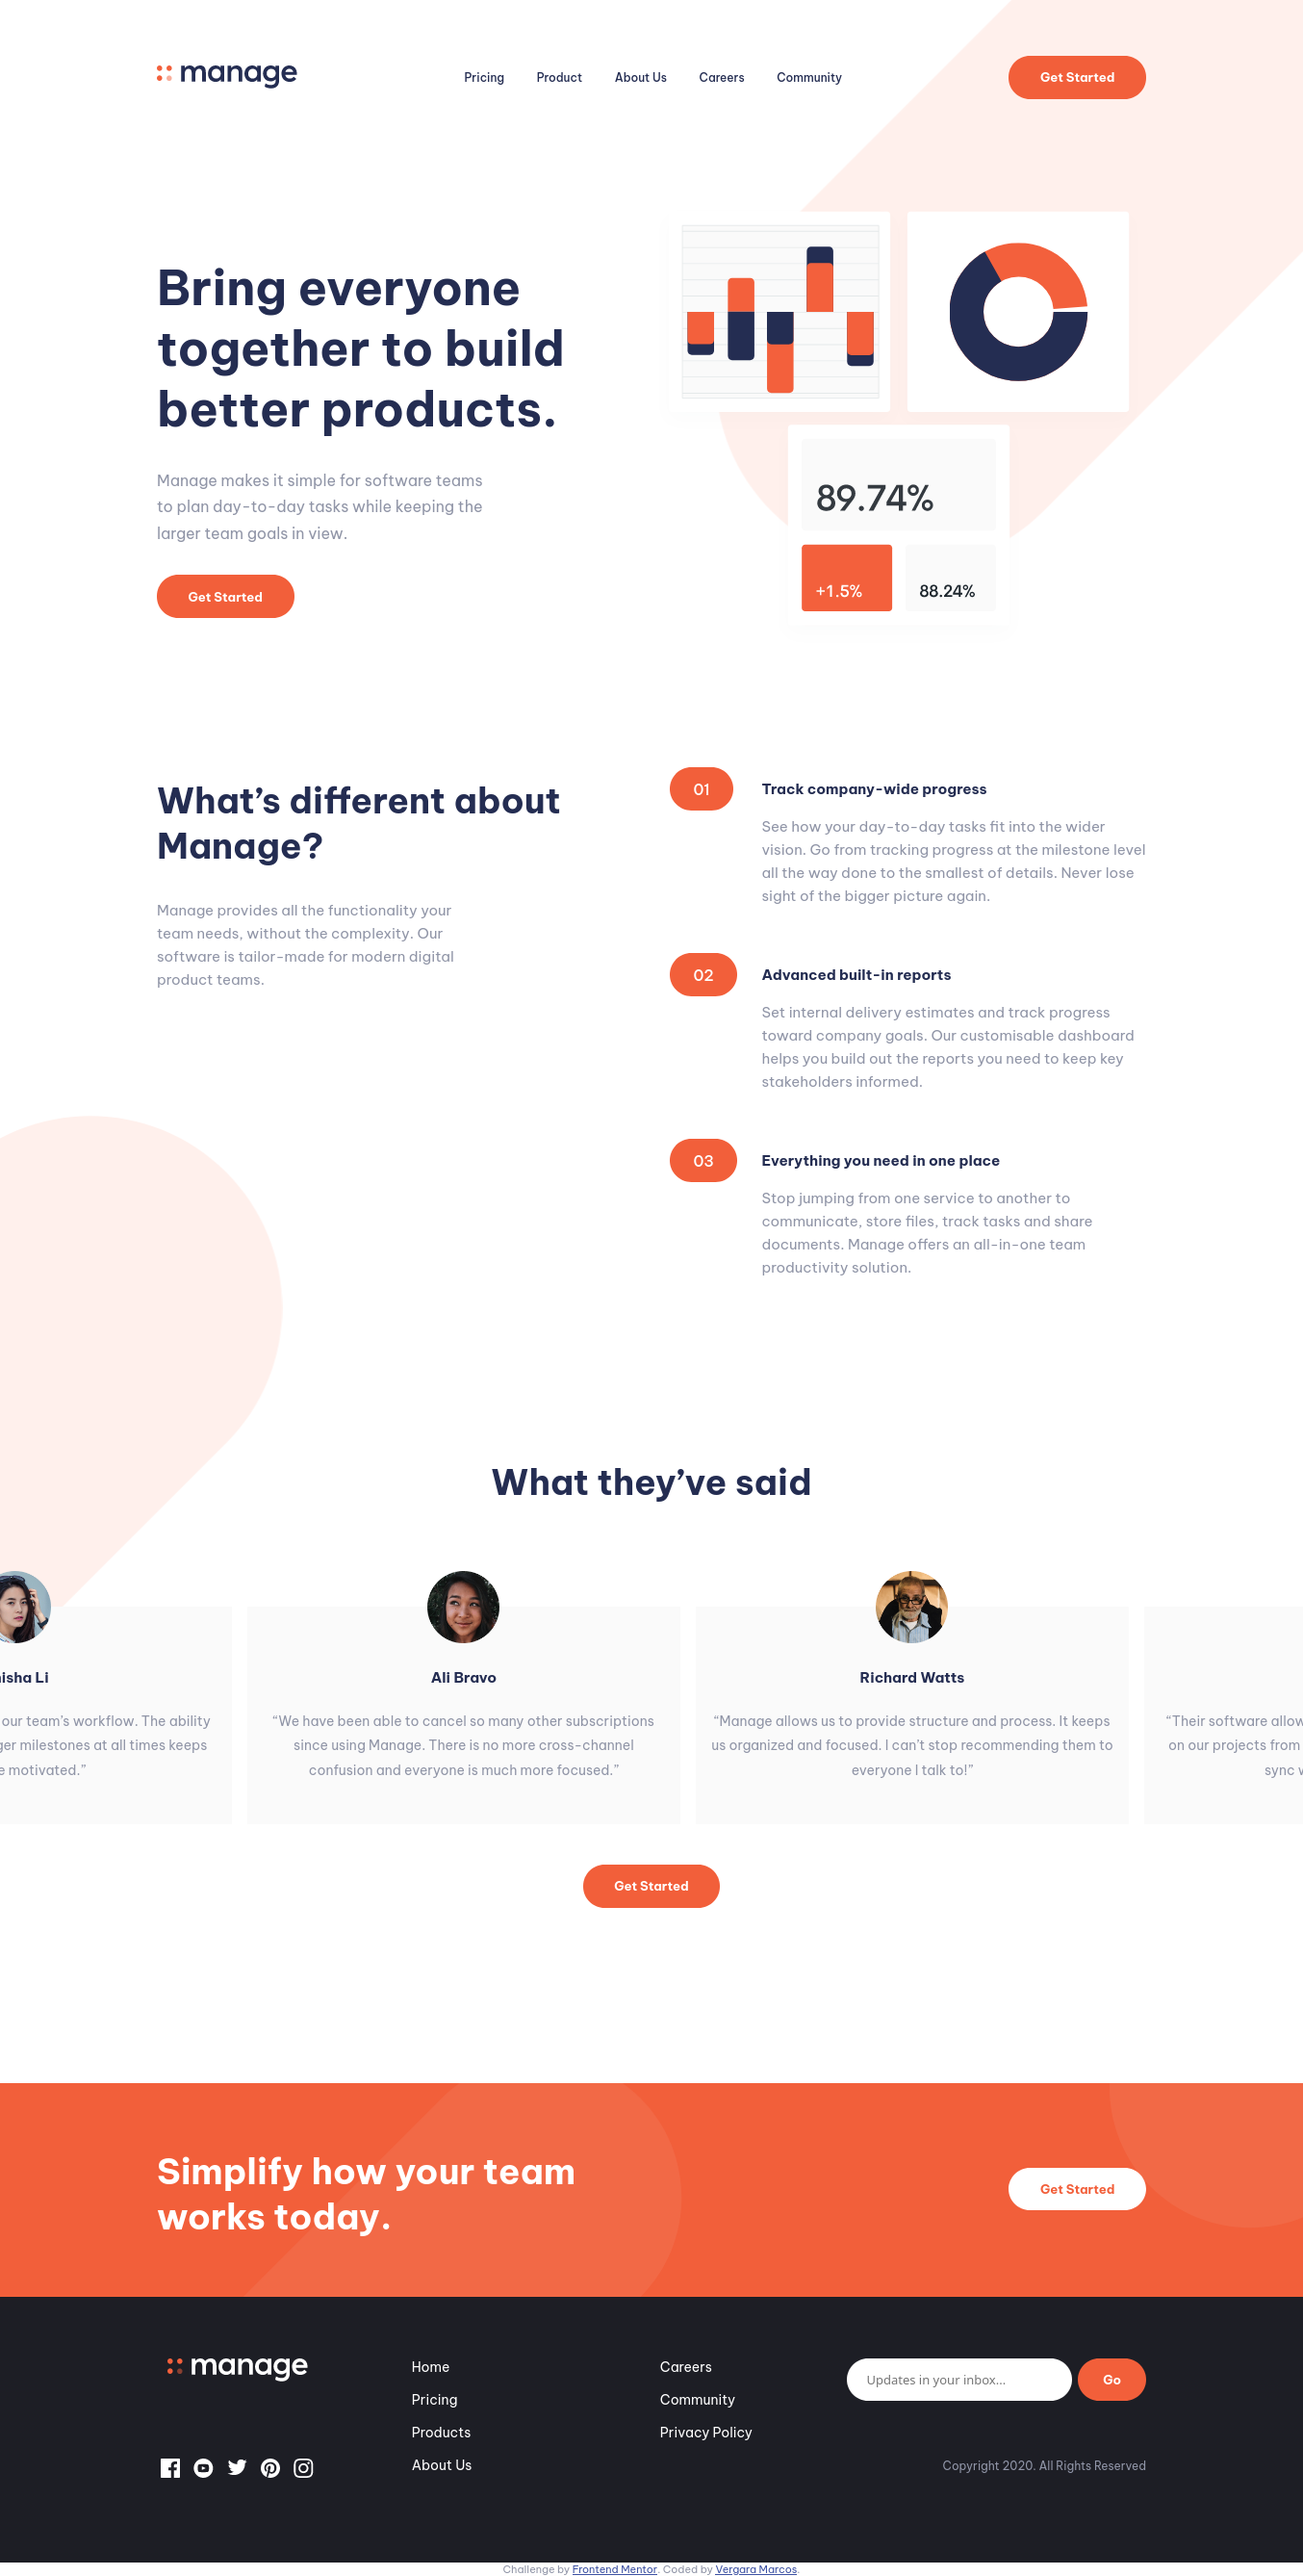
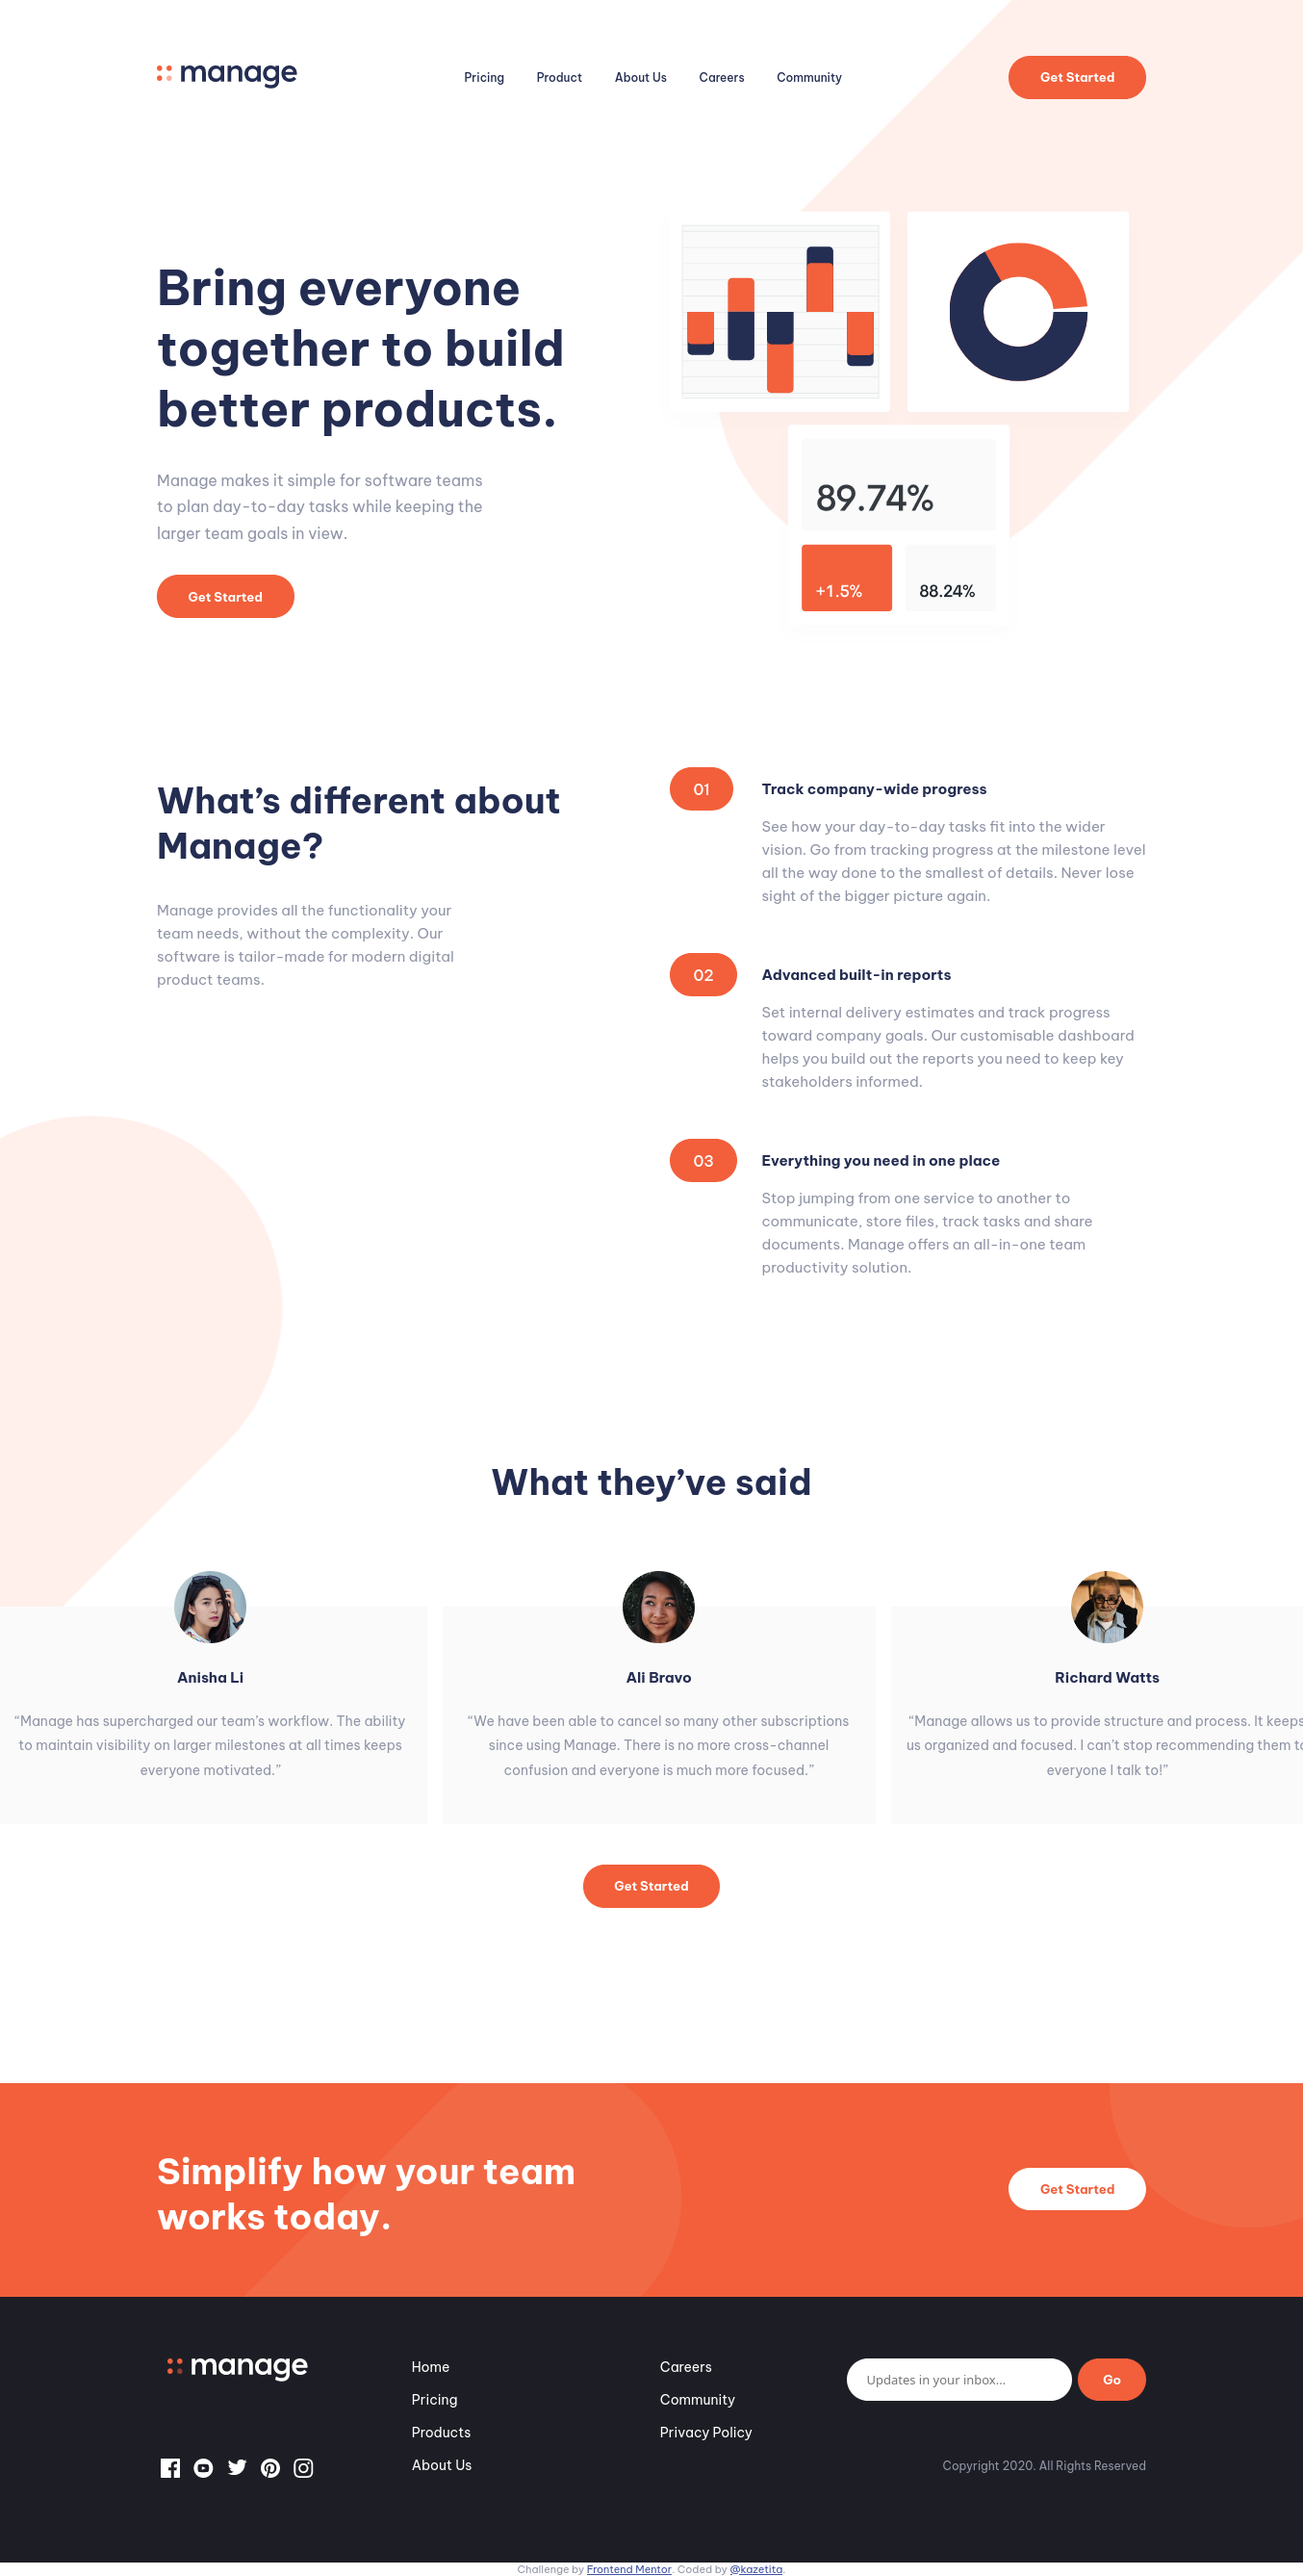
Fixing accesibility errors and link to FEM updated

Changed region(s): [[0.0, 0.5893, 0.5894, 0.6824], [0.6204, 0.5893, 1.0, 0.6824], [0.3722, 0.9925, 0.6204, 1.0]]

diff --git a/index.html b/index.html
@@ -36,7 +36,7 @@
   <body>
     <header class="header">
       <div class="container">
-        <nav class="primary-nav">
+        <nav class="primary-nav" aria-label="primary">
           <a class="logo--fluid" href="#">
             <img src="images/logo.svg" alt="Manage" />
           </a>
@@ -245,7 +245,7 @@
           </div>
         </form>
 
-        <nav class="footer__nav">
+        <nav class="footer__nav" aria-label="secondary">
           <ul class="menu">
             <li class="menu__item"><a class="menu__link" href="#">Home</a></li>
             <li class="menu__item">
@@ -275,6 +275,7 @@
         <ul class="socials">
           <li class="socials__item">
             <a class="socials__link" href="#">
+              <span><span class="sr-only">Facebook</span>
               <svg
                 class="socials__icon"
                 xmlns="http://www.w3.org/2000/svg"
@@ -290,6 +291,7 @@
           </li>
           <li class="socials__item">
             <a class="socials__link" href="#">
+              <span class="sr-only">Youtube</span>
               <svg
                 class="socials__icon"
                 xmlns="http://www.w3.org/2000/svg"
@@ -305,6 +307,7 @@
           </li>
           <li class="socials__item">
             <a class="socials__link" href="#">
+              <span class="sr-only">Twitter</span>
               <svg
                 class="socials__icon"
                 xmlns="http://www.w3.org/2000/svg"
@@ -320,6 +323,7 @@
           </li>
           <li class="socials__item">
             <a class="socials__link" href="#">
+              <span class="sr-only">Pinterest</span>
               <svg
                 class="socials__icon"
                 xmlns="http://www.w3.org/2000/svg"
@@ -335,6 +339,7 @@
           </li>
           <li class="socials__item">
             <a class="socials__link" href="#">
+              <span class="sr-only">Instagram</span>
               <svg
                 class="socials__icon"
                 xmlns="http://www.w3.org/2000/svg"
@@ -375,13 +380,13 @@
         <p class="footer__copyright">Copyright 2020. All Rights Reserved</p>
       </div>
     </footer>
-    <!-- END FOOTER -->
-
     <div class="attribution">
       Challenge by
       <a href="https://www.frontendmentor.io?ref=challenge" target="_blank"
-        >Frontend Mentor</a
-      >. Coded by <a href="#">Vergara Marcos</a>.
+                                                            >Frontend Mentor</a
+                                                          >. Coded by <a href="https://www.frontendmentor.io/profile/kazetita">@kazetita</a>.
     </div>
+    <!-- END FOOTER -->
+
   </body>
 </html>

diff --git a/css/main.css b/css/main.css
@@ -68,6 +68,20 @@ ul {
   }
 }
 
+.sr-only {
+  border: 0 !important;
+  clip: rect(1px, 1px, 1px, 1px) !important;
+  -webkit-clip-path: inset(50%) !important;
+  clip-path: inset(50%) !important;
+  height: 1px !important;
+  margin: -1px !important;
+  overflow: hidden !important;
+  padding: 0 !important;
+  position: absolute !important;
+  width: 1px !important;
+  white-space: nowrap !important;
+}
+
 body {
   background-image: url(../images/bg-tablet-pattern.svg), url(../images/bg-tablet-pattern.svg);
   background-repeat: no-repeat, no-repeat;

diff --git a/scss/utils/_helpers.scss b/scss/utils/_helpers.scss
@@ -35,3 +35,18 @@
 
 }
 
+// @author https://gist.github.com/ffoodd/000b59f431e3e64e4ce1a24d5bb36034
+.sr-only {
+	border: 0 !important;
+	clip: rect(1px, 1px, 1px, 1px) !important; 
+	-webkit-clip-path: inset(50%) !important;
+		clip-path: inset(50%) !important;  
+	height: 1px !important;
+	margin: -1px !important;
+	overflow: hidden !important;
+	padding: 0 !important;
+	position: absolute !important;
+	width: 1px !important;
+	white-space: nowrap !important;           
+}
+

diff --git a/README.md b/README.md
@@ -12,6 +12,7 @@ This is a solution to the [Manage landing page challenge on Frontend Mentor](htt
   - [Built with](#built-with)
   - [What I learned](#what-i-learned)
   - [Continued development](#continued-development)
+  - [Useful resources](#useful-resources)
 
 ## Overview
 
@@ -32,8 +33,8 @@ Users should be able to:
 
 ### Links
 
-- Solution URL: [https://github.com/kazetita/Frontend-Mentor-Challengue-Manage-Landing-Page-Master](https://github.com/kazetita/Frontend-Mentor-Challengue-Manage-Landing-Page-Master)
-- Live Site URL: [https://kazetita.github.io/Frontend-Mentor-Challengue-Manage-Landing-Page-Master/](https://kazetita.github.io/Frontend-Mentor-Challengue-Manage-Landing-Page-Master/)
+- Solution URL: [Frontend Mentor](https://www.frontendmentor.io/solutions/manage-landing-page-with-sassscss-xlrI79rGD)
+- Live Site URL: [Preview](https://kazetita.github.io/Frontend-Mentor-Challengue-Manage-Landing-Page-Master/)
 
 ## My process
 
@@ -44,18 +45,21 @@ Users should be able to:
 - Flexbox
 - CSS Grid
 - Mobile-first workflow
-- Sass
+- SASS/SCSS
 
 ### What I learned
-- Positioning of images in the background. Make images scale and reposition depending on screen size.
+- Make background images scale and reposition depending on screen size.
 - Use vainilla javascript to build a slider and make it responsive.
-- Mixing Sass.
 - Combine Sass variables and custom properties.
 
 ### Continued development
 
 - Finding an easier technique to make background images responsives.
 - Apply a diferent css methodology to organize css, like itcss.
+
+### Useful resources
+
+- [sr-only](https://gist.github.com/ffoodd/000b59f431e3e64e4ce1a24d5bb36034) - This helped me fix accesibility problems in my links.
 
 ## Author
 
